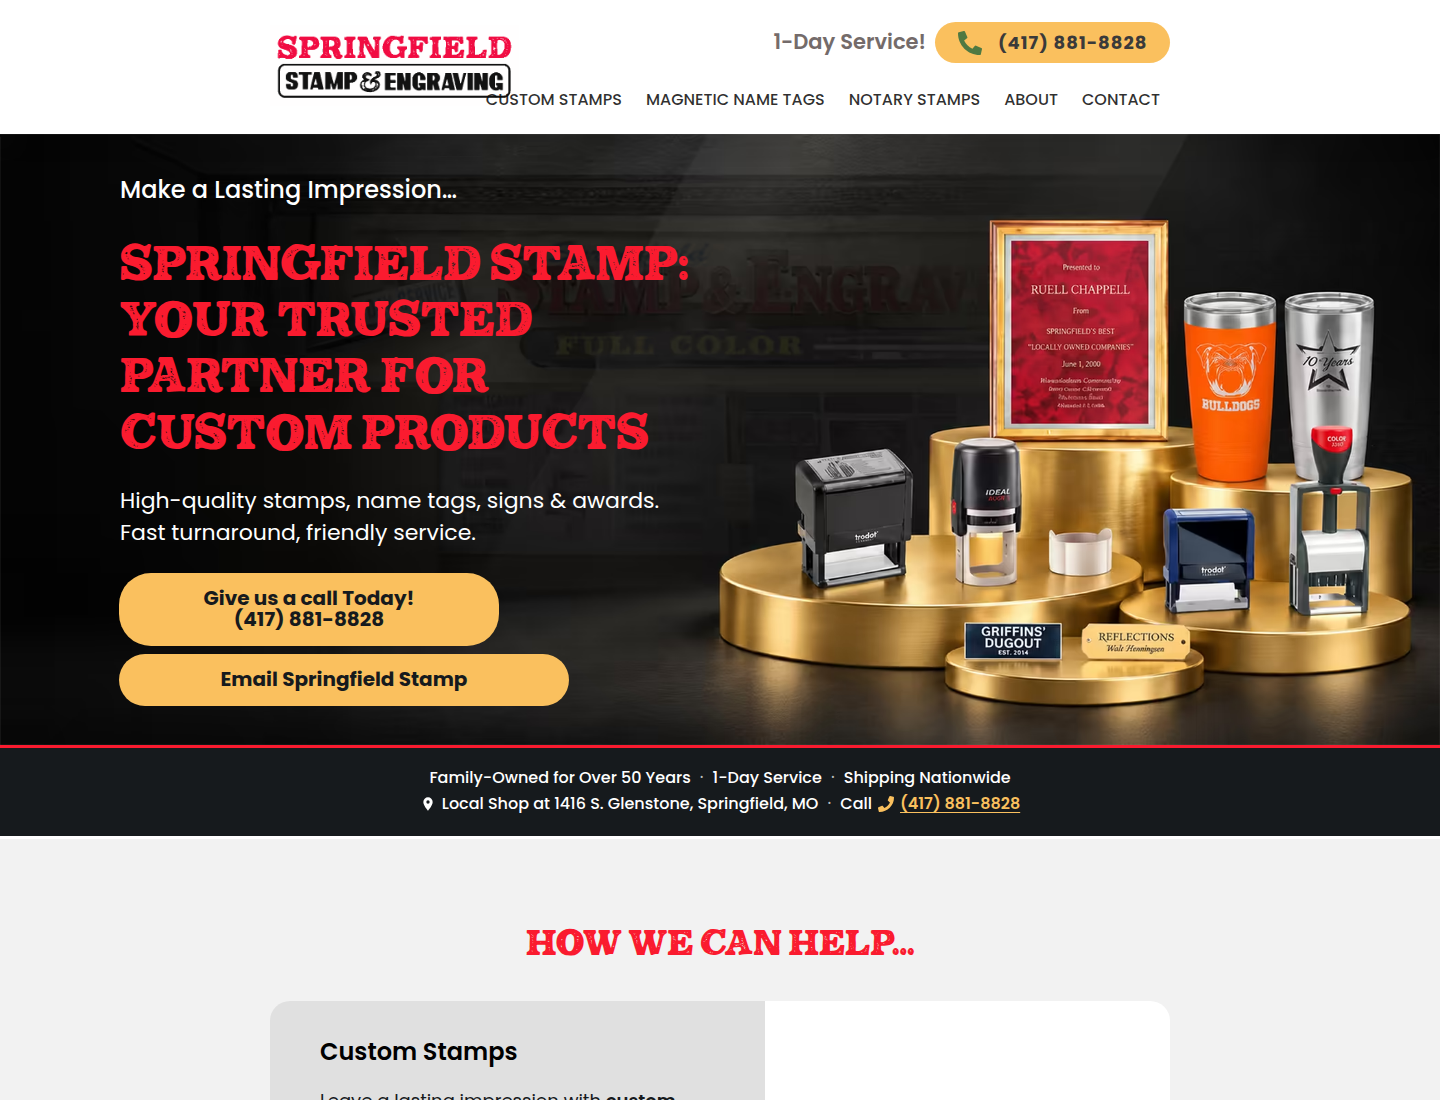
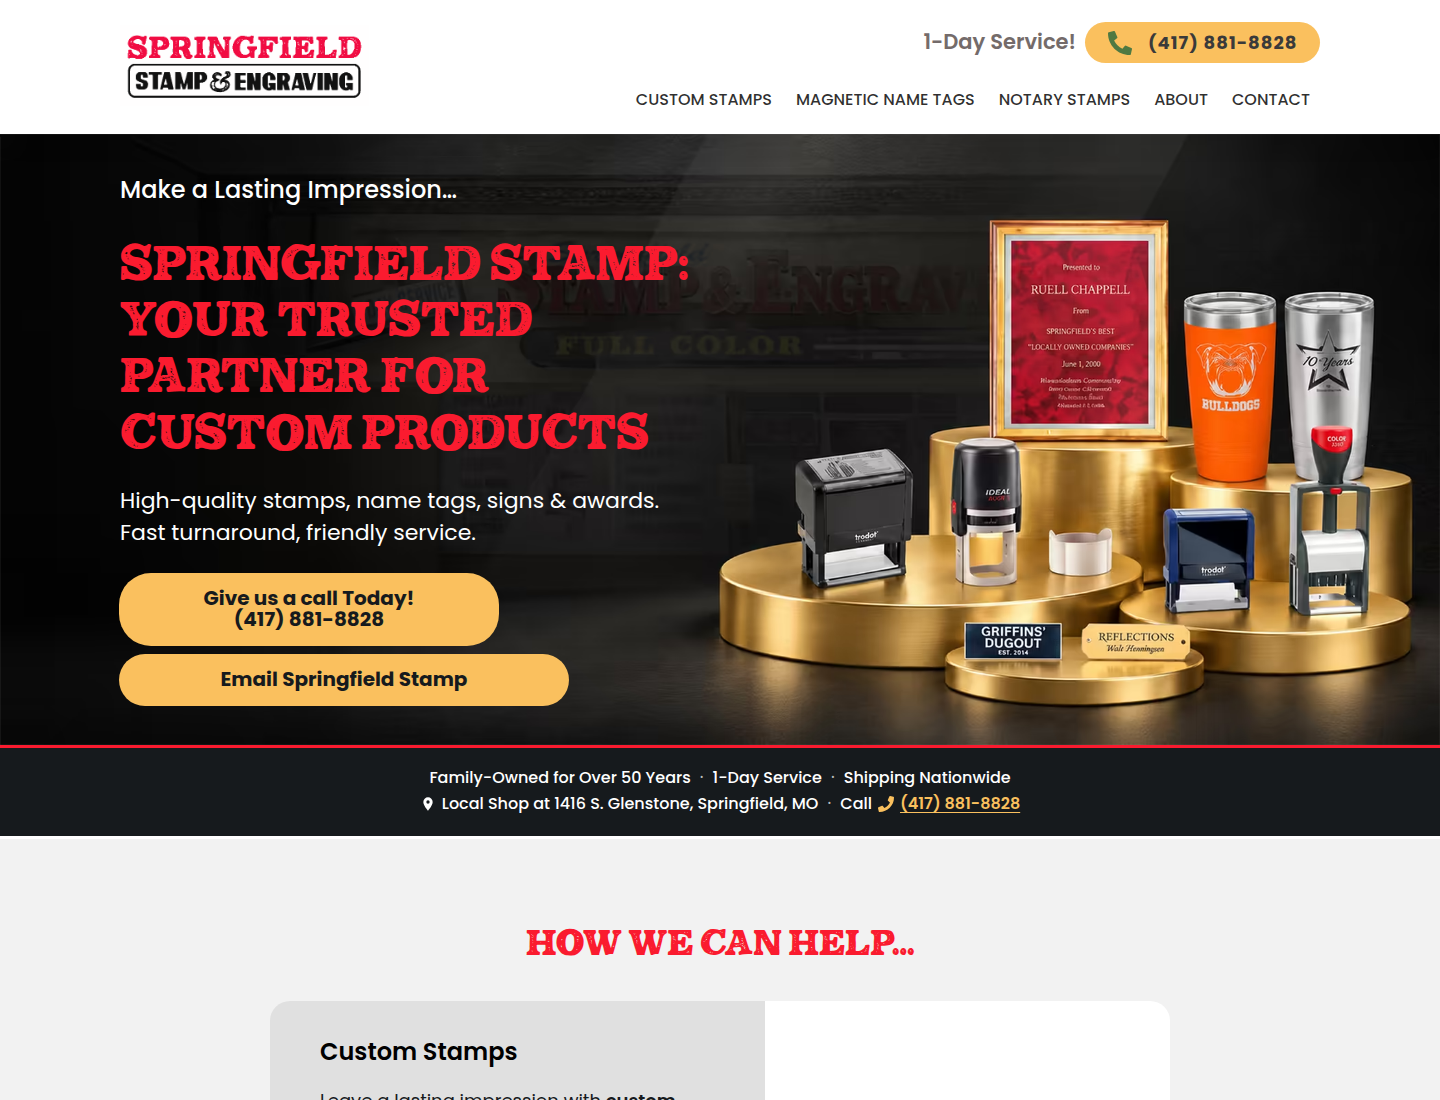
Give the header its own bar and keep hero headlines off the photos.
The logo and nav share a centred 1200px header, wider than the 900px reading column. About, notary, custom stamps, and contact headlines stay in the dark left of their photos. A marker after the trust bar holds the hero and the bar until both have parsed, so the short about hero does not paint the bar one frame late.

Changed region(s): [[0.0625, 0.0, 0.9375, 0.0927]]

diff --git a/src/styles/global.css b/src/styles/global.css
@@ -40,7 +40,9 @@
   /* One readable column (Rule 4). Backgrounds may be full-bleed; text stays in this column. */
   --content-max: 900px;
   --content-pad: 24px;
-  --w-header: var(--content-max);
+  /* The header is its own bar. The logo, five nav links, the banner, and the phone
+     pill cannot share the 900px reading column without overlapping. */
+  --w-header: 1200px;
   --w-hero: var(--content-max);
   --w-content: var(--content-max);
   --w-about: var(--content-max);
@@ -136,6 +138,16 @@ a {
   }
 }
 .atf:not(:has(> .atf-ready)) {
+  visibility: hidden;
+  /* Stays its own rule. A matching declaration gets merged, and the build test looks for this selector. */
+  --atf-gate: 1;
+}
+
+/* The trust bar sits outside .atf, immediately after it. On a short hero it is inside the
+   measured first-frame band, and a chunk boundary between .atf-ready and the bar paints the
+   bar one frame late. Hold both until the marker after the bar is parsed. */
+body:not(:has(> .trust-ready)) .atf,
+body:not(:has(> .trust-ready)) .trust-bar {
   visibility: hidden;
 }
 
